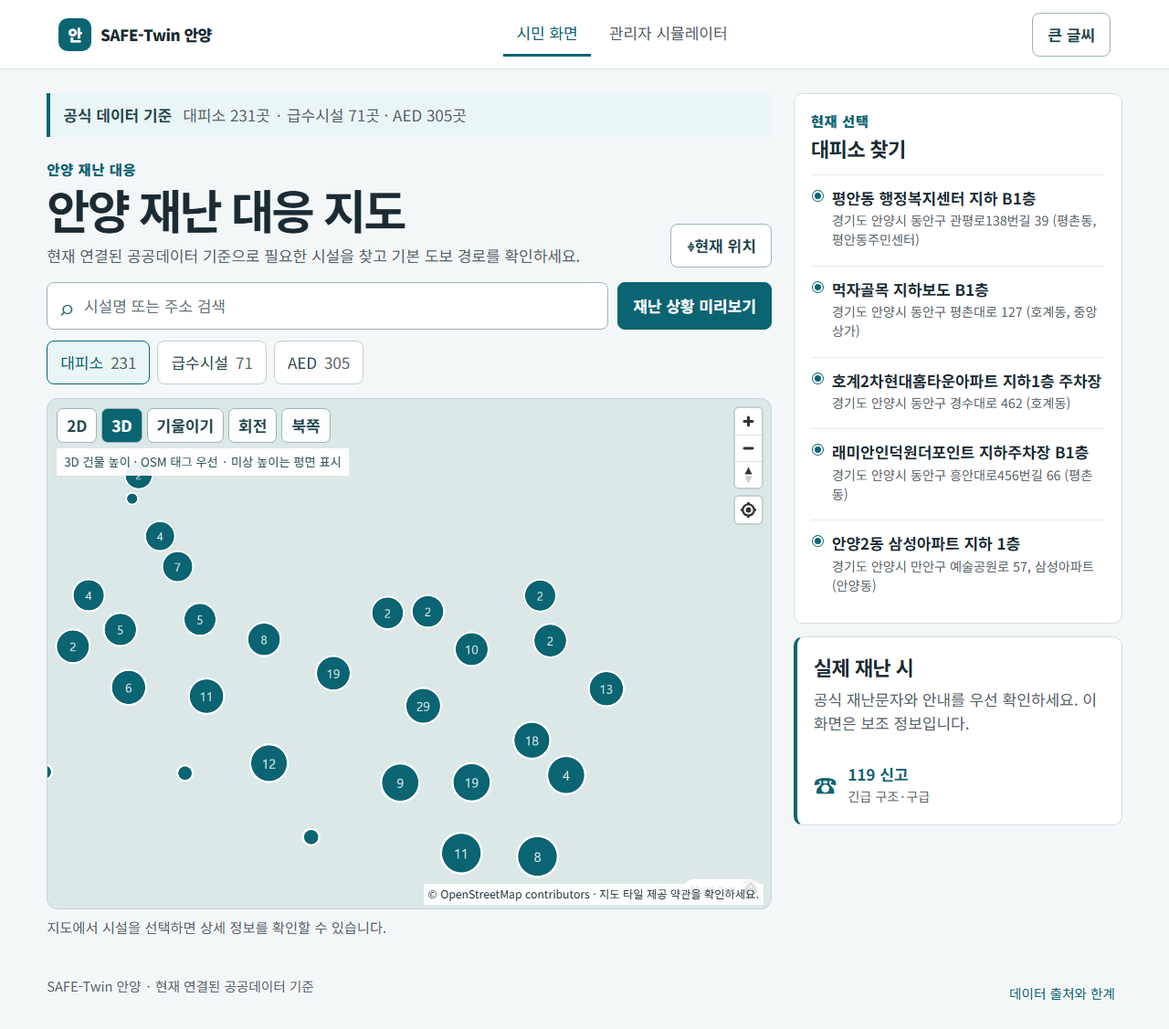
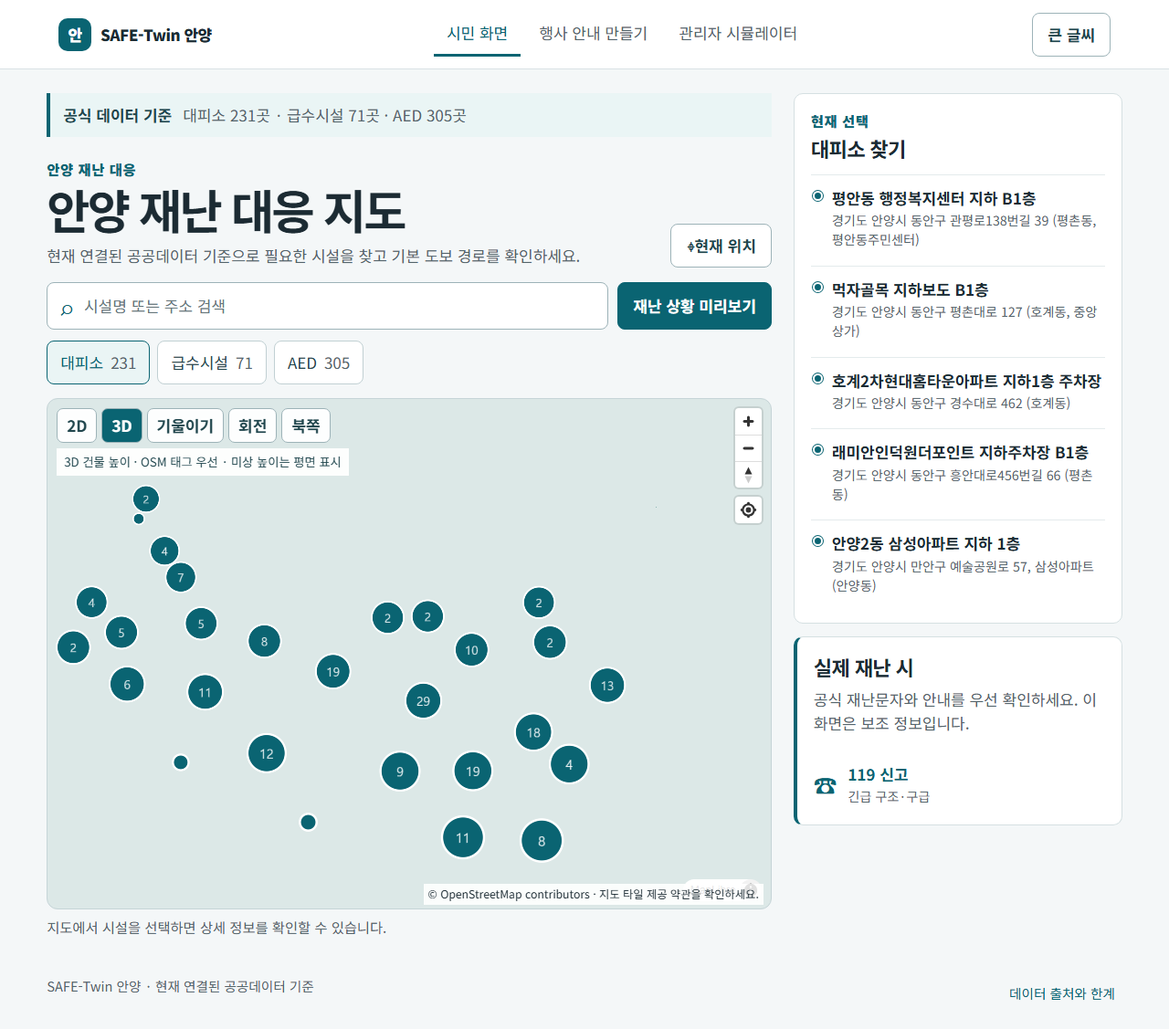
Harden event authoring and admin workspaces

diff --git a/apps/web/src/AdminSimulator.tsx b/apps/web/src/AdminSimulator.tsx
@@ -40,6 +40,7 @@ export function AdminSimulator({ onBack, demoMode = false }: { onBack: () => voi
   const [modeContracts, setModeContracts] = useState<Scenario[]>([]);
   const [releaseVersion, setReleaseVersion] = useState<ReleaseVersion | null>(null);
   const [diagnostics, setDiagnostics] = useState<Array<{ endpoint: string; status: string; elapsedMs: number }>>([]);
+  const [workspace, setWorkspace] = useState<"event" | "simulation" | "advanced">("simulation");
   const requestGeneration = useRef(0);
   const selectedModeContract = modeContracts.find((item) => item.mode === newDisasterType);
 
@@ -173,8 +174,9 @@ export function AdminSimulator({ onBack, demoMode = false }: { onBack: () => voi
 
   async function compare() {
     if (!selectedId || !compareId) return;
+    const compareScenarioId = scenarios.find((item) => item.scenario_id === compareId || item.title === compareId)?.scenario_id ?? compareId;
     const endpoint = `${API}/compare`;
-    try { setComparison(await readJsonResponse<Frame>(await fetch(endpoint, { method: "POST", headers: { "Content-Type": "application/json" }, body: JSON.stringify({ scenario_a: selectedId, scenario_b: compareId, time_minute: time }) }), endpoint)); setStatus("Scenario A/B 비교를 계산했습니다."); }
+    try { setComparison(await readJsonResponse<Frame>(await fetch(endpoint, { method: "POST", headers: { "Content-Type": "application/json" }, body: JSON.stringify({ scenario_a: selectedId, scenario_b: compareScenarioId, time_minute: time }) }), endpoint)); setStatus("Scenario A/B 비교를 계산했습니다."); }
     catch (error) { setStatus(`ERROR · compare · ${error instanceof Error ? error.message : "연결 실패"}`); }
   }
 
@@ -232,16 +234,16 @@ export function AdminSimulator({ onBack, demoMode = false }: { onBack: () => voi
     <div className="admin-map-placeholder"><MapView facilities={shelters} onSelect={() => undefined} currentLocation={null} hazardGeometry={hazard} hazardLabel={frame?.hazard?.label} onMapClick={onMapClick} changedRoads={frame?.roads?.changed ?? []} facilityLoads={Object.fromEntries((frame?.facilities ?? []).map((item: Scenario) => [item.facility_id, item.load ?? 0]))} facilityLoadRatios={Object.fromEntries((frame?.facilities ?? []).map((item: Scenario) => [item.facility_id, item.effective_capacity ? (item.load ?? 0) / item.effective_capacity : 0]))} evacuationFlow={frame?.evacuation_flow ?? []} /></div>
     <aside className="admin-pane">
       <button className="back-button" type="button" onClick={onBack}>← 시민 화면</button>
-      <p className="section-kicker">행정 What-if 엔진</p><h1>안양 4D 도시상태 시뮬레이터</h1>{demoMode && <p className="scenario-assumption" role="status">대회 데모 모드 · 30초 설명용 GENERAL_EVACUATION preset</p>}
+      <p className="section-kicker">관리자 workspace</p><h1>안양 안전 운영 도구</h1><nav className="workspace-tabs" aria-label="관리자 작업공간"><button type="button" aria-pressed={workspace === "event"} onClick={() => { setWorkspace("event"); window.location.href = "/event-admin"; }}>행사 안내</button><button type="button" aria-pressed={workspace === "simulation"} onClick={() => setWorkspace("simulation")}>재난 시뮬레이션</button><button type="button" aria-pressed={workspace === "advanced"} onClick={() => setWorkspace("advanced")}>고급 분석</button></nav>{demoMode && <p className="scenario-assumption" role="status">대회 데모 모드 · 30초 설명용 GENERAL_EVACUATION preset</p>}
       <div className="lab-warning"><strong>훈련/가정 시나리오</strong><span>실제 재난 안내·침수심·시민 emergency routing이 아닙니다.</span></div>
       <label className="admin-field">시나리오<select value={selectedId} onChange={(event) => setSelectedId(event.target.value)}>{scenarios.map((item) => <option key={item.scenario_id} value={item.scenario_id}>{item.title}</option>)}</select></label>
       <p className="admin-status" role="status">{status}</p>
-      {scenario && <><div className="admin-controls"><button className="secondary-button" type="button" onClick={() => setPlaying((value) => !value)}>{playing ? "일시정지" : "재생"}</button><button className="secondary-button" type="button" onClick={() => void duplicateScenario()}>복제</button><button className="secondary-button" type="button" onClick={() => void trainingRoute()}>훈련 경로 계산</button><button className="secondary-button" type="button" onClick={() => void exportScenario()}>JSON 내보내기</button></div><label className="admin-field" htmlFor="goal4a-time">현재 시간: {time}분<input id="goal4a-time" aria-label="4D 시뮬레이션 타임라인" type="range" min="0" max={scenario.frame_times.length - 1} value={scenario.frame_times.indexOf(time)} onChange={(event) => setTime(scenario.frame_times[Number(event.target.value)])} /></label><p className="scenario-assumption">재난 유형: {scenario.disaster_type} · provenance: {scenario.provenance} · 공식 비상급수 맥락: {resourceCount ?? "…"}건 · {reducedMotion ? "감소된 동작" : "일반 동작"}</p>{routeStatus && <p className="scenario-assumption">{routeStatus} · 시민 안내 아님</p>}</>}
-      <section className="admin-editor" aria-label="새 시나리오 작성"><h2>새 시나리오 작성</h2><div className="admin-controls"><select aria-label="새 시나리오 재난 유형" value={newDisasterType} onChange={(event) => setNewDisasterType(event.target.value)}>{["FLOOD", "EARTHQUAKE", "FIRE", "CIVIL_DEFENSE", "GENERAL_EVACUATION"].map((type) => <option key={type}>{type}</option>)}</select><input aria-label="새 시나리오 시작" type="datetime-local" value={newStart} onChange={(event) => setNewStart(event.target.value)} /><input aria-label="새 시나리오 종료" type="datetime-local" value={newEnd} onChange={(event) => setNewEnd(event.target.value)} /><label>대피 참여율 가정<select aria-label="대피 참여율 가정" value={participation} onChange={(event) => setParticipation(Number(event.target.value))}><option value="0.25">25%</option><option value="0.5">50%</option><option value="1">100%</option></select></label></div>{selectedModeContract && <div className="mode-contract" role="note"><strong>{selectedModeContract.label} · 데이터 상태: {selectedModeContract.source_status}</strong><span>가능: {selectedModeContract.supported_calculations.join(" · ")}</span><span>지원하지 않음: {selectedModeContract.unsupported_claims.join(" · ")}</span></div>}<button className="secondary-button" type="button" onClick={() => void createScenario()}>새 훈련/가정 시나리오 저장</button></section>
-      <section className="admin-editor" aria-label="시나리오 편집"><h2>관리자 편집</h2><button className="secondary-button" type="button" onClick={() => { setDrawing(true); setDrawPoints([]); }}>지도에서 hazard 영역 작성 시작</button>{drawing && <p className="scenario-assumption">지도에서 3점 이상 클릭하세요: {drawPoints.length}점 · 실제 위험지도 아님</p>}<button className="secondary-button" type="button" disabled={drawPoints.length < 3} onClick={saveDrawnHazard}>작성 영역 저장</button><button className="secondary-button" type="button" onClick={addKeyframe}>현재 시간에 hazard keyframe 추가</button><label className="admin-field">도로 edge ID<input value={edgeId} onChange={(event) => setEdgeId(event.target.value)} placeholder="예: 123-456" /><button className="secondary-button" type="button" onClick={closeRoad}>도로 통행 제한 저장</button></label><label className="admin-field">시설<select value={facilityId} onChange={(event) => setFacilityId(event.target.value)}><option value="">시설 선택</option>{shelters.slice(0, 80).map((item: Facility) => <option key={item.id} value={item.id}>{item.name || item.id}</option>)}</select></label><div className="admin-controls"><button className="secondary-button" type="button" onClick={closeFacility}>시설 폐쇄</button><input aria-label="capacity override" type="number" min="0" value={capacity} onChange={(event) => setCapacity(Number(event.target.value))} /><button className="secondary-button" type="button" onClick={overrideFacilityCapacity}>용량 저장</button></div><label className="admin-field">공식 자원 맥락<select value={resourceId} onChange={(event) => setResourceId(event.target.value)}><option value="">자원 선택</option>{resources.slice(0, 80).map((item: Scenario) => <option key={item.id} value={item.id}>{item.name || item.id}</option>)}</select><button className="secondary-button" type="button" onClick={closeResource}>자원 사용 불가 저장</button></label></section>
-      {frame && <><section className="admin-metrics" aria-label="현재 frame metrics"><h2>{frame.time_minute}분 frame</h2><dl className="admin-stats"><div><dt>전체 인구</dt><dd>{frame.assignment.total_population.toLocaleString()}명</dd></div><div><dt>영향 인구</dt><dd>{frame.assignment.affected_population.toLocaleString()}명</dd></div><div><dt>대피 수요</dt><dd>{frame.assignment.evacuation_demand.toLocaleString()}명</dd></div><div><dt>배정</dt><dd>{frame.assignment.assigned.toLocaleString()}명</dd></div><div><dt>미배정</dt><dd>{frame.assignment.unserved.toLocaleString()}명</dd></div><div><dt>도달 가능</dt><dd>{frame.assignment.reachable_population.toLocaleString()}명</dd></div><div><dt>변경 도로</dt><dd>{frame.roads.changed_count}</dd></div><div><dt>가용 대피소</dt><dd>{frame.available_shelter_count}</dd></div><div><dt>병목 후보</dt><dd>{frame.assignment.bottleneck_edges?.length ?? 0}</dd></div></dl><p className="scenario-assumption">대피 참여율 가정: {(frame.assignment.evacuation_fraction * 100).toFixed(0)}% · 영향 규칙: {frame.assignment.affected_demand_rule} · 수요 provenance: {frame.demand_provenance.join(", ")} · 지형 flood path: 비활성</p></section><section className="admin-editor" aria-label="Scenario A/B 비교"><h2>Scenario A/B 비교</h2><select aria-label="Scenario B 비교 대상" value={compareId} onChange={(event) => setCompareId(event.target.value)}><option value="">비교 시나리오 선택</option>{scenarios.filter((item) => item.scenario_id !== selectedId).map((item) => <option key={item.scenario_id} value={item.scenario_id}>{item.title}</option>)}</select><button className="secondary-button" type="button" onClick={() => void compare()}>차이 계산</button>{comparison && <><p className="scenario-assumption">B−A 배정 {comparison.delta_b_minus_a.assigned}명 · 미배정 {comparison.delta_b_minus_a.unserved}명 · 여행 비용 {comparison.delta_b_minus_a.assignment_cost.toLocaleString()}m · 가용 대피소 {comparison.delta_b_minus_a.available_shelters}곳 · 변경 도로 {comparison.delta_b_minus_a.changed_roads}개</p><ul className="scenario-assumption">{(comparison.why || []).map((reason: string) => <li key={reason}>{reason}</li>)}</ul></>}</section></>}
-      {demoMode && <section className="admin-editor" aria-label="AI 대규모 시나리오 선별"><h2>AI 대규모 시나리오 선별</h2><p className="scenario-assumption">후보 생성 → AI 빠른 선별 → 상위 후보 exact 재검증. 모두 SIMULATED_ADMIN_SCENARIO이며 시민 안내가 아닙니다.</p><div className="admin-controls"><label>후보 수<select aria-label="AI 후보 시나리오 수" value={aiCandidateCount} onChange={(event) => setAiCandidateCount(Number(event.target.value))}><option value="100">100</option><option value="500">500</option><option value="1000">1,000</option></select></label><button className="secondary-button" type="button" onClick={() => void screenAi()}>AI 빠른 선별</button></div>{aiStatus && <p className="admin-status" role="status">{aiStatus}</p>}{aiScreen && <><p className="scenario-assumption">{aiScreen.candidate_count.toLocaleString()}개 후보 · exact 호출 {aiScreen.exact_calls}회 · 모델 {aiScreen.model_version}</p><ol className="ai-shortlist">{aiScreen.verified_shortlist.map((item: Scenario, index: number) => <li key={item.scenario_id}><strong>#{index + 1} {item.scenario_id}</strong><span>AI 추정 미배정 {Math.round(item.estimated_unserved ?? 0).toLocaleString()}명 · exact 미배정 {item.exact_result?.unserved?.toLocaleString?.() ?? "-"}명 · {item.support_status}</span><small>주요 입력: {(item.explanation || []).slice(0, 2).map((reason: Scenario) => reason.feature).join(", ") || "없음"}</small></li>)}</ol><p className="scenario-assumption">표시 최종값은 exact reference 결과이며 AI 추정치는 별도 감사용으로 보존합니다.</p></>}</section>}
-      <section className="admin-editor" aria-label="배포 진단"><h2>배포 진단</h2><p className="scenario-assumption">/api/release/readiness · {readiness?.status ?? "확인 중"}</p><p className="scenario-assumption" data-testid="deployment-identity">프론트 build ID {releaseVersion?.frontend_build_id ?? FRONTEND_BUILD_ID} · API commit {releaseVersion?.git_commit ?? "확인 중"} · build {releaseVersion?.build_timestamp ?? "확인 중"} · schema {releaseVersion?.api_schema_version ?? "확인 중"}</p>{diagnostics.length > 0 && <ul className="scenario-assumption" aria-label="API 요청 진단">{diagnostics.map((item) => <li key={item.endpoint}>{item.endpoint} · {item.status} · {item.elapsedMs}ms</li>)}</ul>}{readiness?.mandatory_checks && <ul className="scenario-assumption">{Object.entries(readiness.mandatory_checks).map(([key, value]: [string, any]) => <li key={key}>{key}: {value.ready ? "READY" : `FAIL${value.error ? ` · ${value.error}` : ""}`}</li>)}</ul>}</section><p className="admin-disclaimer">가정 hazard는 실제 침수·붕괴·화재 확산을 뜻하지 않습니다. 실제 재난 시 공식 통제정보를 우선 확인하세요.</p>
+      {workspace === "simulation" && scenario && <><div className="admin-controls"><button className="secondary-button" type="button" onClick={() => setPlaying((value) => !value)}>{playing ? "일시정지" : "재생"}</button><button className="secondary-button" type="button" onClick={() => void duplicateScenario()}>복제</button><button className="secondary-button" type="button" onClick={() => void trainingRoute()}>훈련 경로 계산</button><button className="secondary-button" type="button" onClick={() => void exportScenario()}>JSON 내보내기</button></div><label className="admin-field" htmlFor="goal4a-time">현재 시간: {time}분<input id="goal4a-time" aria-label="4D 시뮬레이션 타임라인" type="range" min="0" max={scenario.frame_times.length - 1} value={scenario.frame_times.indexOf(time)} onChange={(event) => setTime(scenario.frame_times[Number(event.target.value)])} /></label><p className="scenario-assumption">재난 유형: {scenario.disaster_type} · provenance: {scenario.provenance} · 공식 비상급수 맥락: {resourceCount ?? "…"}건 · {reducedMotion ? "감소된 동작" : "일반 동작"}</p>{routeStatus && <p className="scenario-assumption">{routeStatus} · 시민 안내 아님</p>}</>}
+      {workspace === "simulation" && <><section className="admin-editor" aria-label="새 시나리오 작성"><h2>새 시나리오 작성</h2><div className="admin-controls"><select aria-label="새 시나리오 재난 유형" value={newDisasterType} onChange={(event) => setNewDisasterType(event.target.value)}>{["FLOOD", "EARTHQUAKE", "FIRE", "CIVIL_DEFENSE", "GENERAL_EVACUATION"].map((type) => <option key={type}>{type}</option>)}</select><input aria-label="새 시나리오 시작" type="datetime-local" value={newStart} onChange={(event) => setNewStart(event.target.value)} /><input aria-label="새 시나리오 종료" type="datetime-local" value={newEnd} onChange={(event) => setNewEnd(event.target.value)} /><label>대피 참여율 가정<select aria-label="대피 참여율 가정" value={participation} onChange={(event) => setParticipation(Number(event.target.value))}><option value="0.25">25%</option><option value="0.5">50%</option><option value="1">100%</option></select></label></div>{selectedModeContract && <div className="mode-contract" role="note"><strong>{selectedModeContract.label} · 데이터 상태: {selectedModeContract.source_status}</strong><span>가능: {selectedModeContract.supported_calculations.join(" · ")}</span><span>지원하지 않음: {selectedModeContract.unsupported_claims.join(" · ")}</span></div>}<button className="secondary-button" type="button" onClick={() => void createScenario()}>새 훈련/가정 시나리오 저장</button></section><section className="admin-editor" aria-label="시나리오 편집"><h2>관리자 편집</h2><button className="secondary-button" type="button" onClick={() => { setDrawing(true); setDrawPoints([]); }}>지도에서 hazard 영역 작성 시작</button>{drawing && <p className="scenario-assumption">지도에서 3점 이상 클릭하세요: {drawPoints.length}점 · 실제 위험지도 아님</p>}<button className="secondary-button" type="button" disabled={drawPoints.length < 3} onClick={saveDrawnHazard}>작성 영역 저장</button><button className="secondary-button" type="button" onClick={addKeyframe}>현재 시간에 hazard keyframe 추가</button><label className="admin-field">도로 edge ID<input value={edgeId} onChange={(event) => setEdgeId(event.target.value)} placeholder="예: 123-456" /><button className="secondary-button" type="button" onClick={closeRoad}>도로 통행 제한 저장</button></label><label className="admin-field">시설<select value={facilityId} onChange={(event) => setFacilityId(event.target.value)}><option value="">시설 선택</option>{shelters.slice(0, 80).map((item: Facility) => <option key={item.id} value={item.id}>{item.name || item.id}</option>)}</select></label><div className="admin-controls"><button className="secondary-button" type="button" onClick={closeFacility}>시설 폐쇄</button><input aria-label="capacity override" type="number" min="0" value={capacity} onChange={(event) => setCapacity(Number(event.target.value))} /><button className="secondary-button" type="button" onClick={overrideFacilityCapacity}>용량 저장</button></div><label className="admin-field">공식 자원 맥락<select value={resourceId} onChange={(event) => setResourceId(event.target.value)}><option value="">자원 선택</option>{resources.slice(0, 80).map((item: Scenario) => <option key={item.id} value={item.id}>{item.name || item.id}</option>)}</select><button className="secondary-button" type="button" onClick={closeResource}>자원 사용 불가 저장</button></label></section></>}
+      {workspace === "simulation" && frame && <><section className="admin-metrics" aria-label="현재 frame metrics"><h2>{frame.time_minute}분 frame</h2><dl className="admin-stats"><div><dt>전체 인구</dt><dd>{frame.assignment.total_population.toLocaleString()}명</dd></div><div><dt>영향 인구</dt><dd>{frame.assignment.affected_population.toLocaleString()}명</dd></div><div><dt>대피 수요</dt><dd>{frame.assignment.evacuation_demand.toLocaleString()}명</dd></div><div><dt>배정</dt><dd>{frame.assignment.assigned.toLocaleString()}명</dd></div><div><dt>미배정</dt><dd>{frame.assignment.unserved.toLocaleString()}명</dd></div><div><dt>도달 가능</dt><dd>{frame.assignment.reachable_population.toLocaleString()}명</dd></div><div><dt>변경 도로</dt><dd>{frame.roads.changed_count}</dd></div><div><dt>가용 대피소</dt><dd>{frame.available_shelter_count}</dd></div><div><dt>병목 후보</dt><dd>{frame.assignment.bottleneck_edges?.length ?? 0}</dd></div></dl><p className="scenario-assumption">대피 참여율 가정: {(frame.assignment.evacuation_fraction * 100).toFixed(0)}% · 영향 규칙: {frame.assignment.affected_demand_rule} · 수요 provenance: {frame.demand_provenance.join(", ")}</p></section><section className="admin-editor" aria-label="Scenario A/B 비교"><h2>Scenario A/B 비교</h2><select aria-label="Scenario B 비교 대상" value={compareId} onChange={(event) => setCompareId(event.target.value)}><option value="">비교 시나리오 선택</option>{scenarios.filter((item) => item.scenario_id !== selectedId).map((item) => <option key={item.scenario_id} value={item.title}>{item.title}</option>)}</select><button className="secondary-button" type="button" onClick={() => void compare()}>차이 계산</button>{comparison && <><p className="scenario-assumption">B−A 배정 {comparison.delta_b_minus_a.assigned}명 · 미배정 {comparison.delta_b_minus_a.unserved}명 · 여행 비용 {comparison.delta_b_minus_a.assignment_cost.toLocaleString()}m · 가용 대피소 {comparison.delta_b_minus_a.available_shelters}곳 · 변경 도로 {comparison.delta_b_minus_a.changed_roads}개</p><ul className="scenario-assumption">{(comparison.why || []).map((reason: string) => <li key={reason}>{reason}</li>)}</ul></>}</section></>}
+      {workspace === "advanced" && demoMode && <section className="admin-editor" aria-label="AI 대규모 시나리오 선별"><h2>AI 대규모 시나리오 선별</h2><p className="scenario-assumption">후보 생성 → AI 빠른 선별 → 상위 후보 exact 재검증. 모두 SIMULATED_ADMIN_SCENARIO이며 시민 안내가 아닙니다.</p><div className="admin-controls"><label>후보 수<select aria-label="AI 후보 시나리오 수" value={aiCandidateCount} onChange={(event) => setAiCandidateCount(Number(event.target.value))}><option value="100">100</option><option value="500">500</option><option value="1000">1,000</option></select></label><button className="secondary-button" type="button" onClick={() => void screenAi()}>AI 빠른 선별</button></div>{aiStatus && <p className="admin-status" role="status">{aiStatus}</p>}{aiScreen && <><p className="scenario-assumption">{aiScreen.candidate_count.toLocaleString()}개 후보 · exact 호출 {aiScreen.exact_calls}회 · 모델 {aiScreen.model_version}</p><ol className="ai-shortlist">{aiScreen.verified_shortlist.map((item: Scenario, index: number) => <li key={item.scenario_id}><strong>#{index + 1} {item.scenario_id}</strong><span>AI 추정 미배정 {Math.round(item.estimated_unserved ?? 0).toLocaleString()}명 · exact 미배정 {item.exact_result?.unserved?.toLocaleString?.() ?? "-"}명 · {item.support_status}</span><small>주요 입력: {(item.explanation || []).slice(0, 2).map((reason: Scenario) => reason.feature).join(", ") || "없음"}</small></li>)}</ol><p className="scenario-assumption">표시 최종값은 exact reference 결과이며 AI 추정치는 별도 감사용으로 보존합니다.</p></>}</section>}
+      {workspace === "advanced" && <section className="admin-editor" aria-label="배포 진단"><h2>배포 진단</h2><p className="scenario-assumption">/api/release/readiness · {readiness?.status ?? "확인 중"}</p><p className="scenario-assumption" data-testid="deployment-identity">프론트 build ID {releaseVersion?.frontend_build_id ?? FRONTEND_BUILD_ID} · API commit {releaseVersion?.git_commit ?? "확인 중"} · build {releaseVersion?.build_timestamp ?? "확인 중"} · schema {releaseVersion?.api_schema_version ?? "확인 중"}</p>{diagnostics.length > 0 && <ul className="scenario-assumption" aria-label="API 요청 진단">{diagnostics.map((item) => <li key={item.endpoint}>{item.endpoint} · {item.status} · {item.elapsedMs}ms</li>)}</ul>}{readiness?.mandatory_checks && <ul className="scenario-assumption">{Object.entries(readiness.mandatory_checks).map(([key, value]: [string, any]) => <li key={key}>{key}: {value.ready ? "READY" : `FAIL${value.error ? ` · ${value.error}` : ""}`}</li>)}</ul>}</section>}
+      <p className="admin-disclaimer">가정 hazard는 실제 침수·붕괴·화재 확산을 뜻하지 않습니다. 실제 재난 시 공식 통제정보를 우선 확인하세요.</p>
     </aside>
   </main>;
 }

diff --git a/apps/web/src/EventOrganizer.tsx b/apps/web/src/EventOrganizer.tsx
@@ -13,7 +13,13 @@ export function EventOrganizer({ onPreview, onBack }: { onPreview: (plan: EventP
   const [drawingRoute, setDrawingRoute] = useState(false);
   const activeGroup = plan.groups.find((group) => group.id === groupId) ?? plan.groups[0];
   function updatePlan(next: EventPlan) { setPlan(next); }
+  function loadFloorPlan(file: File | undefined) {
+    if (!file || !["image/png", "image/jpeg", "image/svg+xml", "application/pdf"].includes(file.type)) return;
+    const reader = new FileReader();
+    reader.onload = () => updatePlan({ ...plan, floorPlan: { mimeType: file.type as "image/png" | "image/jpeg" | "image/svg+xml" | "application/pdf", dataUrl: String(reader.result), width: 800, height: 500 } });
+    reader.readAsDataURL(file);
+  }
   function placePoint(point: EventPoint) { updatePlan(drawingRoute ? addRoutePoint(plan, groupId, point) : addEventNode(plan, groupId, nodeKind, point)); }
   function preview() { onPreview({ ...plan, name, venue, representation, slug: name.trim().toLowerCase().replace(/\s+/g, "-") || "event" }); }
-  return <main className="event-organizer" aria-label="행사 대피안내 만들기"><button className="back-button" type="button" onClick={onBack}>← 관리자 홈</button><p className="section-kicker">행사 안내</p><h1>행사 대피안내 만들기</h1><p className="lead">행사 운영자가 지정한 안내 경로로 참가자용 대피자료를 만듭니다.</p><p className="event-safety-notice">본 서비스는 대피 안내자료 제작을 돕는 도구입니다. 실제 행사 운영 전 시설 안전관리자·행사 책임자가 경로를 확인하세요.</p>{step === 1 && <section className="event-step"><h2>1. 행사 정보</h2><label className="admin-field">행사명<input aria-label="행사명" value={name} onChange={(event) => setName(event.target.value)} placeholder="예: 안양 해커톤" /></label><label className="admin-field">행사 장소<input aria-label="행사 장소" value={venue} onChange={(event) => setVenue(event.target.value)} placeholder="예: 안양대학교 강당" /></label><button className="secondary-button" type="button" onClick={() => { setPlan(createEventPlan(name, venue, representation)); setStep(2); }}>다음</button></section>}{step >= 2 && <section className="event-step"><h2>2. 장소 표현</h2><label className="form-check"><input type="radio" aria-label="야외/캠퍼스 지도" checked={representation === "OUTDOOR"} onChange={() => setRepresentation("OUTDOOR")} />야외/캠퍼스 지도</label><label className="form-check"><input type="radio" aria-label="실내 도면" checked={representation === "INDOOR"} onChange={() => setRepresentation("INDOOR")} />실내 도면</label><button className="secondary-button" type="button" onClick={() => setStep(3)}>다음</button><button className="primary-button" type="button" onClick={preview}>계획 미리보기</button></section>}{step >= 3 && <section className="event-step"><h2>3. 구역과 안내 경로</h2><div className="admin-controls"><label>구역<select aria-label="행사 구역" value={groupId} onChange={(event) => setGroupId(event.target.value)}>{plan.groups.map((group) => <option key={group.id} value={group.id}>{group.name}</option>)}</select></label><label>표시<select aria-label="안내 지점 종류" value={nodeKind} onChange={(event) => setNodeKind(event.target.value as typeof nodeKind)}><option value="start">참가자 시작 구역</option><option value="exit">비상 출구</option><option value="assembly">집결지</option><option value="AED">AED</option></select></label><button className="secondary-button" type="button" onClick={() => setDrawingRoute((value) => !value)}>{drawingRoute ? "경로 그리기 종료" : "경로 그리기"}</button></div>{representation === "INDOOR" && <FloorPlanCanvas width={800} height={500} points={[activeGroup.start, activeGroup.exit, activeGroup.assembly].filter((point): point is EventPoint => Boolean(point))} route={activeGroup.route} onPointAdd={placePoint} />}{representation === "OUTDOOR" && <p className="event-map-hint">야외 지도에서는 기존 OSM 보행 경로를 참고하고, 최종 안내 경로는 운영자가 확인합니다.</p>}<button className="primary-button" type="button" onClick={preview}>계획 미리보기</button></section>}</main>;
+  return <main className="event-organizer" aria-label="행사 대피안내 만들기"><button className="back-button" type="button" onClick={onBack}>← 관리자 홈</button><p className="section-kicker">행사 안내</p><h1>행사 대피안내 만들기</h1><p className="lead">행사 운영자가 지정한 안내 경로로 참가자용 대피자료를 만듭니다.</p><p className="event-safety-notice">본 서비스는 대피 안내자료 제작을 돕는 도구입니다. 실제 행사 운영 전 시설 안전관리자·행사 책임자가 경로를 확인하세요.</p>{step === 1 && <section className="event-step"><h2>1. 행사 정보</h2><label className="admin-field">행사명<input aria-label="행사명" value={name} onChange={(event) => setName(event.target.value)} placeholder="예: 안양 해커톤" /></label><label className="admin-field">행사 장소<input aria-label="행사 장소" value={venue} onChange={(event) => setVenue(event.target.value)} placeholder="예: 안양대학교 강당" /></label><button className="secondary-button" type="button" onClick={() => { setPlan(createEventPlan(name, venue, representation)); setStep(2); }}>다음</button></section>}{step >= 2 && <section className="event-step"><h2>2. 장소 표현</h2><label className="form-check"><input type="radio" aria-label="야외/캠퍼스 지도" checked={representation === "OUTDOOR"} onChange={() => setRepresentation("OUTDOOR")} />야외/캠퍼스 지도</label><label className="form-check"><input type="radio" aria-label="실내 도면" checked={representation === "INDOOR"} onChange={() => setRepresentation("INDOOR")} />실내 도면</label><button className="secondary-button" type="button" onClick={() => setStep(3)}>다음</button><button className="primary-button" type="button" onClick={preview}>계획 미리보기</button></section>}{step >= 3 && <section className="event-step"><h2>3. 구역과 안내 경로</h2><div className="admin-controls"><label>구역<select aria-label="행사 구역" value={groupId} onChange={(event) => setGroupId(event.target.value)}>{plan.groups.map((group) => <option key={group.id} value={group.id}>{group.name}</option>)}</select></label><label>표시<select aria-label="안내 지점 종류" value={nodeKind} onChange={(event) => setNodeKind(event.target.value as typeof nodeKind)}><option value="start">참가자 시작 구역</option><option value="exit">비상 출구</option><option value="assembly">집결지</option><option value="AED">AED</option></select></label><button className="secondary-button" type="button" onClick={() => setDrawingRoute((value) => !value)}>{drawingRoute ? "경로 그리기 종료" : "경로 그리기"}</button></div>{representation === "INDOOR" && <><label className="admin-field">실내 도면 파일<input aria-label="실내 도면 파일" type="file" accept="image/png,image/jpeg,image/svg+xml,application/pdf" onChange={(event) => loadFloorPlan(event.target.files?.[0])} /></label>{plan.floorPlan && <p role="status">도면 파일이 선택되었습니다.</p>}<FloorPlanCanvas width={800} height={500} imageUrl={plan.floorPlan?.mimeType === "application/pdf" ? undefined : plan.floorPlan?.dataUrl} points={[activeGroup.start, activeGroup.exit, activeGroup.assembly].filter((point): point is EventPoint => Boolean(point))} route={activeGroup.route} onPointAdd={placePoint} /></>}{representation === "OUTDOOR" && <p className="event-map-hint">야외 지도에서는 기존 OSM 보행 경로를 참고하고, 최종 안내 경로는 운영자가 확인합니다.</p>}<button className="primary-button" type="button" onClick={preview}>계획 미리보기</button></section>}</main>;
 }

diff --git a/apps/web/src/EventVideo.tsx b/apps/web/src/EventVideo.tsx
@@ -1,12 +1,13 @@
 import { useEffect, useMemo, useRef, useState } from "react";
 import type { EventPlan, EventPoint } from "./eventPlan";
-import { buildStoryboard, sceneAtTime } from "./eventVideoModel";
+import { buildStoryboard, canExportWebm, sceneAtTime } from "./eventVideoModel";
 
 export function EventVideo({ plan, groupId = "A" }: { plan: EventPlan; groupId?: string }) {
   const canvas = useRef<HTMLCanvasElement>(null);
   const storyboard = useMemo(() => buildStoryboard(plan, groupId), [plan, groupId]);
   const [elapsed, setElapsed] = useState(0);
   const [playing, setPlaying] = useState(false);
+  const [exportStatus, setExportStatus] = useState("");
   const sceneIndex = sceneAtTime(storyboard, elapsed);
   const scene = storyboard[sceneIndex];
 
@@ -35,14 +36,17 @@ export function EventVideo({ plan, groupId = "A" }: { plan: EventPlan; groupId?:
 
   async function exportWebm() {
     const target = canvas.current;
-    if (!target || typeof MediaRecorder === "undefined" || !target.captureStream) return;
+    if (!target || !canExportWebm(typeof MediaRecorder !== "undefined", Boolean(target.captureStream))) { setExportStatus("이 브라우저는 WebM 내보내기를 지원하지 않습니다."); return; }
+    try {
     const stream = target.captureStream(30);
     const chunks: BlobPart[] = [];
     const recorder = new MediaRecorder(stream, { mimeType: "video/webm" });
     recorder.ondataavailable = (event) => { if (event.data.size) chunks.push(event.data); };
     recorder.onstop = () => { const url = URL.createObjectURL(new Blob(chunks, { type: "video/webm" })); const link = document.createElement("a"); link.href = url; link.download = `${plan.slug || "event"}-evacuation-guide.webm`; link.click(); URL.revokeObjectURL(url); };
     recorder.start(); setPlaying(true); window.setTimeout(() => { setPlaying(false); recorder.stop(); }, 1600);
+    setExportStatus("WebM을 준비하고 있습니다.");
+    } catch { setExportStatus("WebM 내보내기를 시작하지 못했습니다."); }
   }
 
-  return <section className="event-video" aria-label="대피 안내 영상 미리보기"><h2>비상 대피 안내 영상</h2><canvas ref={canvas} width={1920} height={1080} data-testid="event-video-canvas" data-scene-index={sceneIndex} role="img" aria-label={`${sceneIndex + 1}번째 영상 장면 · ${scene.title}`} /><p className="event-video-caption">행사 운영자가 지정한 경로를 안내자료로 보여줍니다. 법정 안전 인증 영상이 아닙니다.</p><div className="video-controls"><button type="button" onClick={() => setPlaying((value) => !value)}>{playing ? "일시정지" : "재생"}</button><button type="button" onClick={() => { setElapsed(0); setPlaying(false); }}>처음부터</button><button type="button" onClick={() => void exportWebm()}>WebM 내보내기</button><button type="button" onClick={() => void canvas.current?.requestFullscreen?.()}>전체 화면</button><span>장면 {sceneIndex + 1}/6</span></div></section>;
+  return <section className="event-video" aria-label="대피 안내 영상 미리보기"><h2>비상 대피 안내 영상</h2><canvas ref={canvas} width={1920} height={1080} data-testid="event-video-canvas" data-scene-index={sceneIndex} role="img" aria-label={`${sceneIndex + 1}번째 영상 장면 · ${scene.title}`} /><p className="event-video-caption">행사 운영자가 지정한 경로를 안내자료로 보여줍니다. 법정 안전 인증 영상이 아닙니다.</p><div className="video-controls"><button type="button" onClick={() => setPlaying((value) => !value)}>{playing ? "일시정지" : "재생"}</button><button type="button" onClick={() => { setElapsed(0); setPlaying(false); }}>처음부터</button><button type="button" onClick={() => void exportWebm()}>WebM 내보내기</button><button type="button" onClick={() => void canvas.current?.requestFullscreen?.()}>전체 화면</button><span>장면 {sceneIndex + 1}/6</span></div>{exportStatus && <p role="status">{exportStatus}</p>}</section>;
 }

diff --git a/apps/web/src/styles.css b/apps/web/src/styles.css
@@ -48,4 +48,5 @@ footer { width: min(1500px, 92vw); margin: auto auto 20px; display: flex; justif
 @media (prefers-reduced-motion: reduce) { *, *::before, *::after { scroll-behavior: auto !important; transition-duration: .01ms !important; animation-duration: .01ms !important; } }
 .lab-warning { display: grid; gap: 4px; margin: 18px 0; padding: 14px; border-left: 4px solid #9a6300; background: #fff7e6; color: #654a17; }.lab-warning span { font-size: .9rem; }.lab-controls { display: grid; gap: 10px; margin: 18px 0; }.lab-controls input { width: 100%; accent-color: #0a6472; }.lab-frame { min-height: 180px; display: grid; place-items: center; overflow: hidden; border: 1px solid #c5d4d7; border-radius: 8px; background: #eaf5f5; }.lab-grid { width: 150px; height: 150px; border-radius: 50%; background: radial-gradient(circle at 42% 42%, #0a6472 0 12%, #3d9b9c 13% 30%, #a9d7cf 31% 55%, transparent 56%); }
 .admin-field { display: grid; gap: 6px; margin: 12px 0; color: #53636a; font-weight: 700; }.admin-field select, .admin-field input, .admin-editor > select, .admin-editor > input { width: 100%; min-height: 44px; border: 1px solid #9db3b8; border-radius: 7px; background: #fff; padding: 8px 10px; color: #1c2b33; }.admin-controls { display: flex; flex-wrap: wrap; align-items: center; gap: 8px; margin: 12px 0; }.admin-controls input { width: 100px; min-height: 44px; border: 1px solid #9db3b8; border-radius: 7px; padding: 8px; }.admin-status { padding: 9px 10px; border-left: 3px solid #0a6472; background: #eaf5f5; font-size: .9rem; }.scenario-assumption, .admin-disclaimer { padding: 10px; border-left: 3px solid #9a6300; background: #fff7e6; color: #654a17 !important; font-size: .86rem; }.admin-editor, .admin-metrics { margin-top: 16px; padding-top: 14px; border-top: 1px solid #d5e0e2; }.admin-editor h2, .admin-metrics h2 { font-size: 1.05rem; }.admin-editor .secondary-button { min-height: 42px; width: 100%; margin-top: 4px; }
+.workspace-tabs { display: flex; flex-wrap: wrap; gap: 6px; margin: 14px 0 18px; }.workspace-tabs button { min-height: 42px; border: 1px solid #9db3b8; border-radius: 7px; background: #fff; color: #20464d; padding: 0 12px; cursor: pointer; font-weight: 700; }.workspace-tabs button[aria-pressed="true"] { background: #0a6472; color: #fff; }
 .qr-fallback { padding: 12px; border-left: 3px solid #9a6300; background: #fff7e6; color: #654a17; }

diff --git a/apps/web/src/App.test.tsx b/apps/web/src/App.test.tsx
@@ -49,9 +49,19 @@ describe("SAFE-Twin real citizen shell", () => {
   it("shows administrative what-if controls without citizen hazard claims", async () => {
     render(<App />);
     fireEvent.click(screen.getByRole("button", { name: "관리자 시뮬레이터" }));
-    expect(await screen.findByRole("heading", { name: "안양 4D 도시상태 시뮬레이터" })).toBeInTheDocument();
+    expect(await screen.findByRole("heading", { name: "안양 안전 운영 도구" })).toBeInTheDocument();
     expect(screen.getByText("훈련/가정 시나리오")).toBeInTheDocument();
     expect(screen.getByRole("button", { name: "현재 시간에 hazard keyframe 추가" })).toBeInTheDocument();
     expect(screen.getByText(/시민 emergency routing이 아닙니다/)).toBeInTheDocument();
+  });
+
+  it("separates simulation and advanced analysis workspaces", async () => {
+    render(<App />);
+    fireEvent.click(screen.getByRole("button", { name: "관리자 시뮬레이터" }));
+    await screen.findByRole("heading", { name: "안양 안전 운영 도구" });
+    expect(screen.getByRole("button", { name: "현재 시간에 hazard keyframe 추가" })).toBeInTheDocument();
+    fireEvent.click(screen.getByRole("button", { name: "고급 분석" }));
+    expect(screen.queryByRole("button", { name: "현재 시간에 hazard keyframe 추가" })).not.toBeInTheDocument();
+    expect(screen.getByRole("heading", { name: "배포 진단" })).toBeInTheDocument();
   });
 });

diff --git a/apps/web/src/EventOrganizer.test.tsx b/apps/web/src/EventOrganizer.test.tsx
@@ -21,4 +21,15 @@ describe("event organizer workflow", () => {
     fireEvent.click(screen.getByTestId("floor-plan-surface"), { clientX: 100, clientY: 75 });
     expect(onPointAdd).toHaveBeenCalledWith({ x: 100, y: 75 });
   });
+
+  it("shows when an indoor floor plan file was selected", async () => {
+    render(<EventOrganizer onPreview={() => undefined} />);
+    fireEvent.change(screen.getByLabelText("행사명"), { target: { value: "행사" } });
+    fireEvent.change(screen.getByLabelText("행사 장소"), { target: { value: "장소" } });
+    fireEvent.click(screen.getByRole("button", { name: "다음" }));
+    fireEvent.click(screen.getByLabelText("실내 도면"));
+    fireEvent.click(screen.getByRole("button", { name: "다음" }));
+    fireEvent.change(screen.getByLabelText("실내 도면 파일"), { target: { files: [new File(["<svg />"], "floor.svg", { type: "image/svg+xml" })] } });
+    expect(await screen.findByText("도면 파일이 선택되었습니다.")).toBeInTheDocument();
+  });
 });

diff --git a/apps/web/src/eventVideo.test.ts b/apps/web/src/eventVideo.test.ts
@@ -1,5 +1,5 @@
 import { describe, expect, it } from "vitest";
-import { buildStoryboard, sceneAtTime } from "./eventVideoModel";
+import { buildStoryboard, canExportWebm, sceneAtTime } from "./eventVideoModel";
 import { createEventPlan, addEventNode, addRoutePoint } from "./eventPlan";
 
 describe("deterministic evacuation video storyboard", () => {
@@ -14,5 +14,10 @@ describe("deterministic evacuation video storyboard", () => {
     expect(storyboard[3].points).toEqual(plan.groups[0].route);
     expect(sceneAtTime(storyboard, 0.99)).toBe(0);
     expect(sceneAtTime(storyboard, 3.01)).toBe(1);
+  });
+
+  it("reports whether the browser can export WebM", () => {
+    expect(canExportWebm(false, false)).toBe(false);
+    expect(canExportWebm(true, true)).toBe(true);
   });
 });

diff --git a/apps/web/src/eventVideoModel.ts b/apps/web/src/eventVideoModel.ts
@@ -25,3 +25,7 @@ export function sceneAtTime(storyboard: StoryboardScene[], elapsedSeconds: numbe
   }
   return Math.max(0, storyboard.length - 1);
 }
+
+export function canExportWebm(hasMediaRecorder: boolean, hasCaptureStream: boolean) {
+  return hasMediaRecorder && hasCaptureStream;
+}
